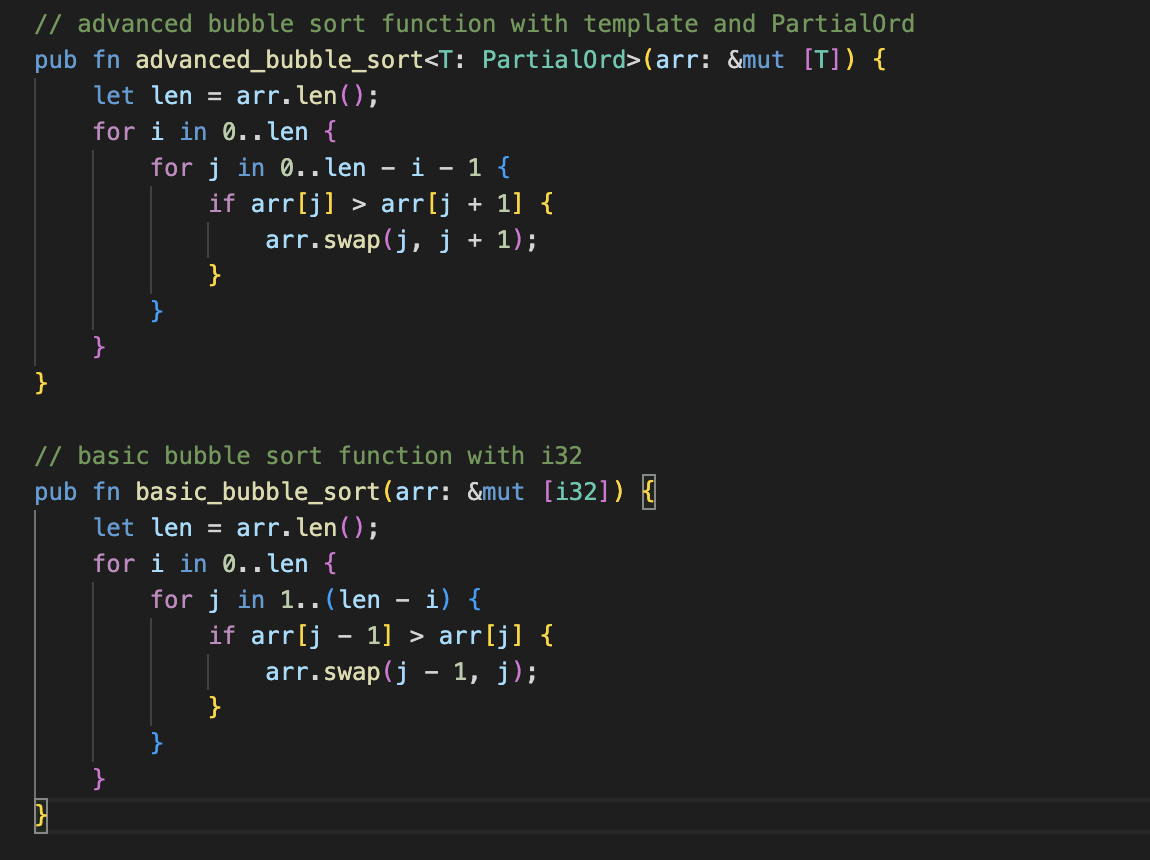
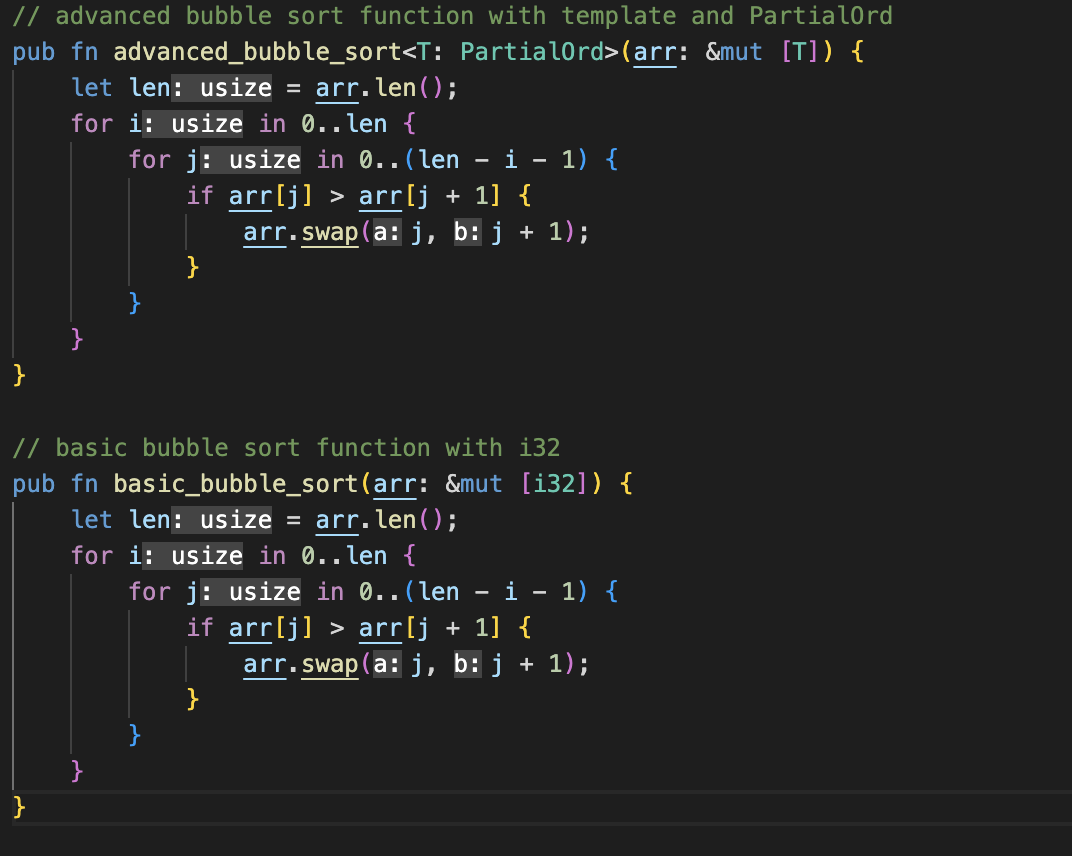
add new feature to my solution

diff --git a/bubble_sort/src/main.rs b/bubble_sort/src/main.rs
@@ -1,19 +1,40 @@
-use std::io;
+use std::env;
 mod sort; // import sort mod
 
 fn main() {
+    let args: Vec<String> = env::args().collect();
+
+    if args.len() < 2 {
+        println!("Usage: {} <flag>", args[0]);
+        return;
+    }
+
+    let flag = &args[1];
+
+    match flag.as_str() {
+        "-basic" => {
+            let mut input = read_input::<i32>();
+            sort::basic_bubble_sort(&mut input);
+            println!("Sorted input: {:?}", input);
+        }
+        "-advanced" => {
+            let mut input = read_input::<String>();
+            sort::advanced_bubble_sort(&mut input);
+            println!("Sorted input: {:?}", input);
+        }
+        _ => println!("Unknown flag: {}", flag),
+    }
+}
+
+fn read_input<T: std::str::FromStr>() -> Vec<T>
+where
+    <T as std::str::FromStr>::Err: std::fmt::Debug,
+{
     let mut input = String::new();
-    println!("Please enter a list of integers separated by spaces:");
-    io::stdin().read_line(&mut input).unwrap();
-    let nums: Vec<i32> = input
-        .trim()
+    std::io::stdin().read_line(&mut input).unwrap();
+
+    input
         .split_whitespace()
         .map(|s| s.parse().unwrap())
-        .collect();
-    let mut nums_copy = nums.clone();
-    sort::basic_bubble_sort(&mut nums_copy); 
-    println!("Basic Sorted array: {:?}", nums_copy);
-
-    sort::advanced_bubble_sort(&mut nums_copy); 
-    println!("Advanced Sorted array: {:?}", nums_copy);
+        .collect()
 }

diff --git a/bubble_sort/src/sort.rs b/bubble_sort/src/sort.rs
@@ -2,7 +2,7 @@
 pub fn advanced_bubble_sort<T: PartialOrd>(arr: &mut [T]) {
     let len = arr.len();
     for i in 0..len {
-        for j in 0..len - i - 1 {
+        for j in 0..(len - i - 1) {
             if arr[j] > arr[j + 1] {
                 arr.swap(j, j + 1);
             }
@@ -14,9 +14,9 @@ pub fn advanced_bubble_sort<T: PartialOrd>(arr: &mut [T]) {
 pub fn basic_bubble_sort(arr: &mut [i32]) {
     let len = arr.len();
     for i in 0..len {
-        for j in 1..(len - i) {
-            if arr[j - 1] > arr[j] {
-                arr.swap(j - 1, j);
+        for j in 0..(len - i - 1) {
+            if arr[j] > arr[j + 1] {
+                arr.swap(j, j + 1);
             }
         }
     }
